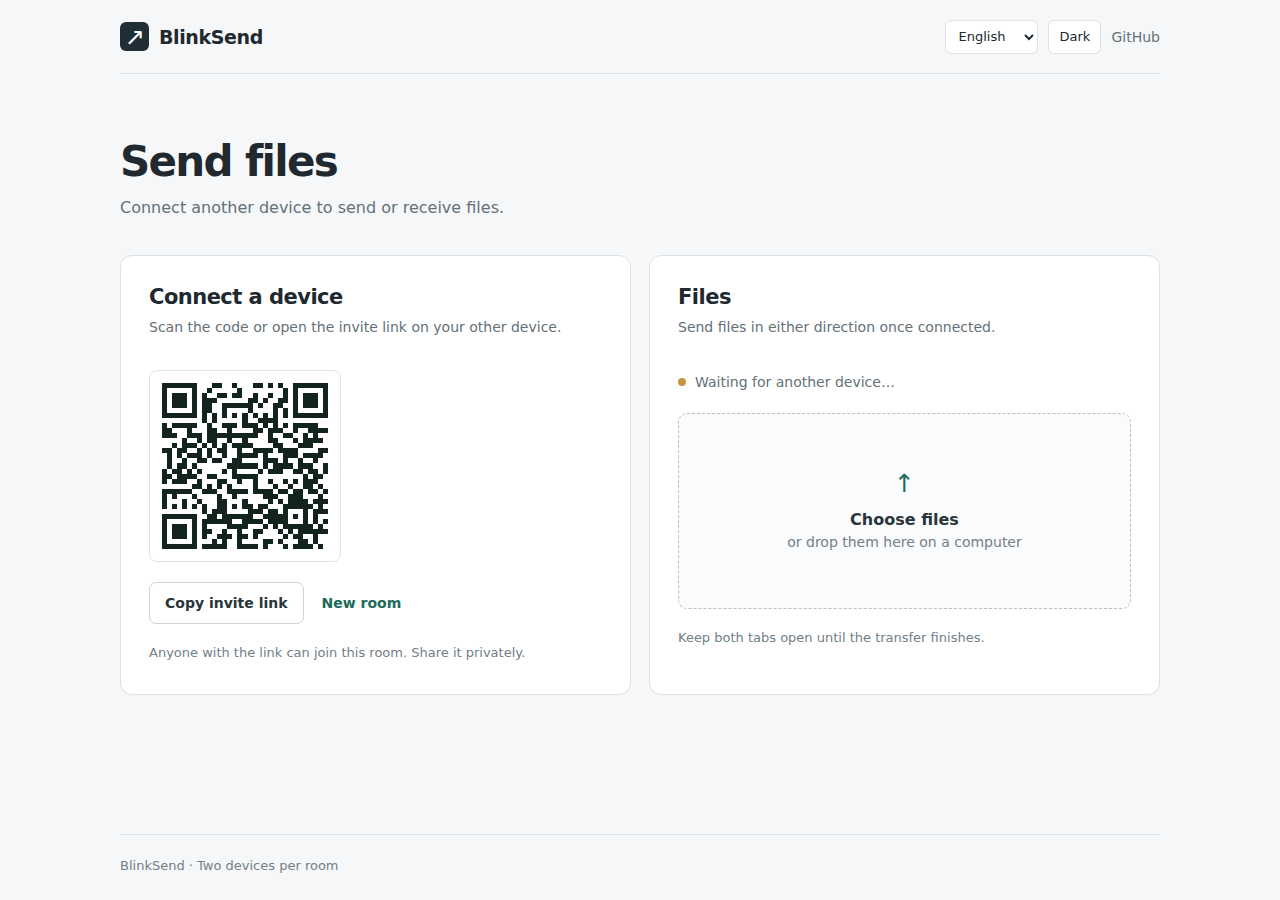
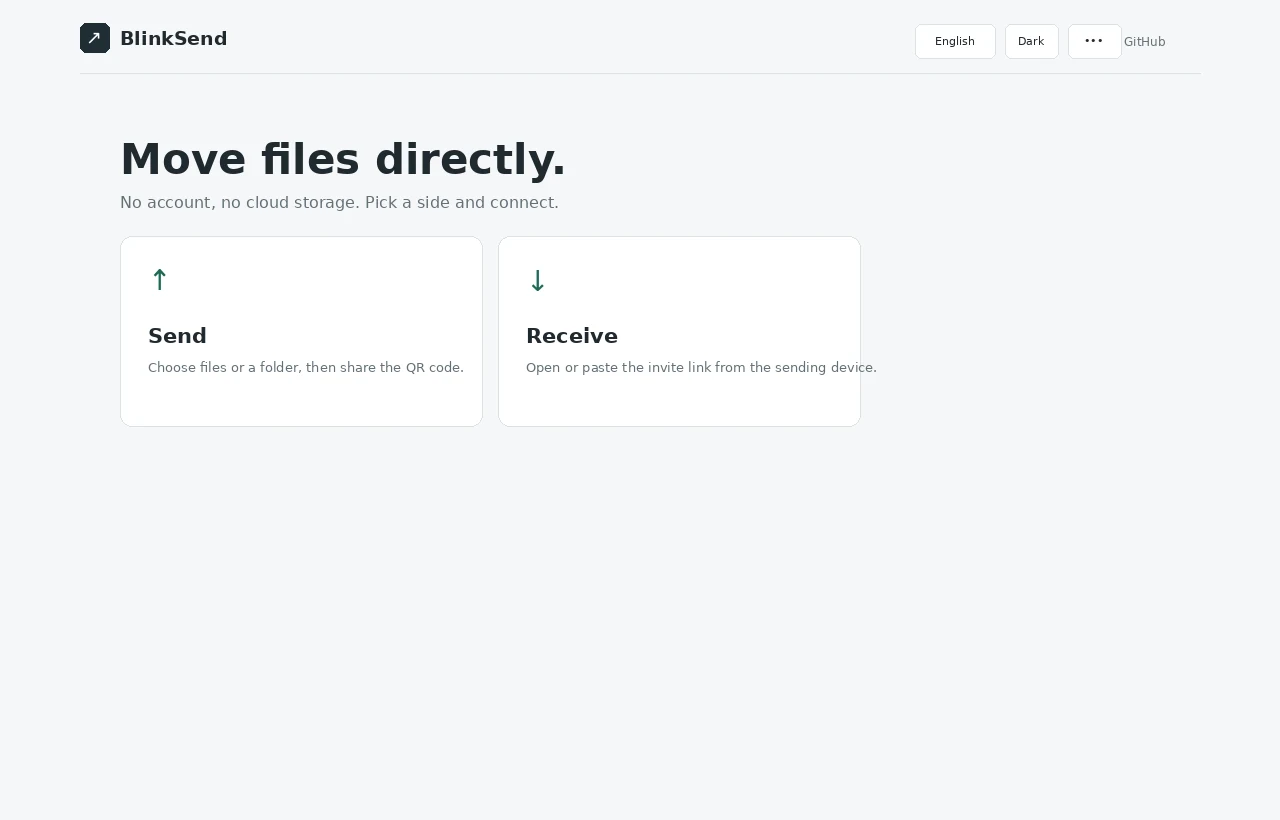
Restore current screenshots and animated README walkthroughs (#6)
* Add reproducible README media renderer

* Automate README media regeneration

* Restore updated screenshots and animated walkthroughs

* Make README media refresh race-safe

* Refresh README visuals for v0.2.0

* Keep README media refresh as an on-demand workflow

* Document on-demand README media refresh

---------

diff --git a/scripts/generate-readme-media.py b/scripts/generate-readme-media.py
@@ -1,0 +1,93 @@
+from PIL import Image, ImageDraw, ImageFont
+from pathlib import Path
+
+OUT=Path("docs/media"); OUT.mkdir(parents=True,exist_ok=True)
+REG="/usr/share/fonts/truetype/dejavu/DejaVuSans.ttf"
+BOLD="/usr/share/fonts/truetype/dejavu/DejaVuSans-Bold.ttf"
+C={"page":"#f6f7f8","surface":"#ffffff","border":"#dce2e5","text":"#20292f","muted":"#647178","accent":"#206a59","soft":"#f5f7f8",
+   "darkpage":"#171d20","darksurface":"#222b2f","darkborder":"#3b484e","darktext":"#edf2f1","darkmuted":"#b1c0c2","darkaccent":"#83d2b1"}
+def font(n,b=False): return ImageFont.truetype(BOLD if b else REG,n)
+def rr(d,b,r,fill,outline=None,w=1): d.rounded_rectangle(b,r,fill=fill,outline=outline,width=w)
+def t(d,xy,s,n=16,fill="#20292f",b=False,anchor=None): d.text(xy,s,font=font(n,b),fill=fill,anchor=anchor)
+def btn(d,b,label,primary=False):
+    rr(d,b,7,C["accent"] if primary else C["surface"],None if primary else "#cbd4d8")
+    t(d,((b[0]+b[2])//2,(b[1]+b[3])//2),label,13,"white" if primary else C["text"],True,"mm")
+def qr(d,x,y,s=142):
+    d.rectangle((x,y,x+s,y+s),fill="white"); q=s//25
+    for yy in range(25):
+        for xx in range(25):
+            if (xx*7+yy*11+xx*yy)%13<5: d.rectangle((x+xx*q,y+yy*q,x+(xx+1)*q-1,y+(yy+1)*q-1),fill="#111")
+    for ox,oy in ((1,1),(17,1),(1,17)):
+        d.rectangle((x+ox*q,y+oy*q,x+(ox+7)*q,y+(oy+7)*q),fill="#111")
+        d.rectangle((x+(ox+1)*q,y+(oy+1)*q,x+(ox+6)*q,y+(oy+6)*q),fill="white")
+        d.rectangle((x+(ox+2)*q,y+(oy+2)*q,x+(ox+5)*q,y+(oy+5)*q),fill="#111")
+def header(d,w,dark=False,mobile=False):
+    surf=C["darksurface"] if dark else C["surface"]; border=C["darkborder"] if dark else C["border"]; fg=C["darktext"] if dark else C["text"]; muted=C["darkmuted"] if dark else C["muted"]; accent=C["darkaccent"] if dark else "#202e35"
+    left=16 if mobile else 80; right=w-16 if mobile else w-80; y=63 if mobile else 73
+    d.line((left,y,right,y),fill=border); rr(d,(left,18 if mobile else 23,left+29,47 if mobile else 52),6,accent); t(d,(left+14,32 if mobile else 37),"↗",19,surf,False,"mm"); t(d,(left+40,32 if mobile else 38),"BlinkSend",17 if mobile else 19,fg,True,"lm")
+    if mobile:
+        for box,label in [((210,18,284,52),"English"),((291,18,340,52),"Light" if dark else "Dark"),((346,18,382,52),"•••")]: rr(d,box,6,surf,border); t(d,((box[0]+box[2])//2,35),label,10,fg,False,"mm")
+    else:
+        for box,label in [((w-365,24,w-285,58),"English"),((w-275,24,w-222,58),"Dark"),((w-212,24,w-159,58),"•••")]: rr(d,box,6,surf,border); t(d,((box[0]+box[2])//2,41),label,11,fg,False,"mm")
+        t(d,(w-135,41),"GitHub",12,muted,False,"mm")
+def landing(w,h,dark=False,mobile=False):
+    page=C["darkpage"] if dark else C["page"]; surf=C["darksurface"] if dark else C["surface"]; border=C["darkborder"] if dark else C["border"]; fg=C["darktext"] if dark else C["text"]; muted=C["darkmuted"] if dark else C["muted"]; accent=C["darkaccent"] if dark else C["accent"]
+    im=Image.new("RGB",(w,h),page); d=ImageDraw.Draw(im); header(d,w,dark,mobile)
+    x=16 if mobile else 120; y=104 if mobile else 135; t(d,(x,y),"Move files directly.",34 if mobile else 42,fg,True); t(d,(x,y+(49 if mobile else 58)),"No account, no cloud storage. Pick a side and connect.",13 if mobile else 16,muted)
+    if mobile:
+        cards=[(16,185,w-16,339,"Send","Choose files or a folder, then share the QR code.","↑"),(16,357,w-16,511,"Receive","Open or paste the invite link from the sending device.","↓")]
+    else:
+        cards=[(120,236,482,426,"Send","Choose files or a folder, then share the QR code.","↑"),(498,236,860,426,"Receive","Open or paste the invite link from the sending device.","↓")]
+    for x1,y1,x2,y2,title,sub,icon in cards:
+        rr(d,(x1,y1,x2,y2),12,surf,border); t(d,(x1+28,y1+28),icon,28,accent); t(d,(x1+28,y1+87 if not mobile else y1+74),title,21,fg,True); t(d,(x1+28,y1+123 if not mobile else y1+108),sub,12 if mobile else 13,muted)
+    return im
+def split(kind="pair",p=.68):
+    im=Image.new("RGB",(1080,610),C["page"]); d=ImageDraw.Draw(im)
+    for col,title in enumerate(("↗ BlinkSend · Sender","↗ BlinkSend · Receiver")):
+        x=22+526*col; rr(d,(x,20,x+510,590),14,C["surface"],C["border"]); t(d,(x+24,51),title,15,C["text"],True); d.line((x+24,78,x+486,78),fill=C["border"])
+    if kind=="pair":
+        t(d,(46,112),"Connect a device",21,C["text"],True); t(d,(46,145),"Scan the QR code or type the pairing code.",13,C["muted"]); qr(d,46,178)
+        rr(d,(46,337,414,417),8,C["soft"],C["border"]); t(d,(61,352),"Pairing code",11,C["muted"]); t(d,(61,376),"7K4M-9Q2X",22,C["text"],True); t(d,(61,403),"Valid until 16:08.",11,C["muted"])
+        t(d,(574,112),"Receive files",21,C["text"],True); t(d,(574,145),"Enter the code shown on the sender.",13,C["muted"]); rr(d,(574,188,894,232),7,C["surface"],"#cbd4d8"); t(d,(590,210),"7K4M-9Q2X",15,C["text"],False,"lm"); btn(d,(906,188,1030,232),"Use code",True); btn(d,(574,252,694,294),"Scan QR"); btn(d,(706,252,830,294),"Find nearby")
+    elif kind=="verify":
+        for x in (46,574):
+            d.ellipse((x,112,x+8,120),fill="#298768"); t(d,(x+18,116),"Connected · Direct · Excellent",13,C["muted"],False,"lm"); rr(d,(x,151,x+440,306),9,C["soft"],C["border"]); t(d,(x+14,166),"VERIFY DEVICE",11,C["muted"],True); t(d,(x+14,190),"728 491",28,C["text"],True); t(d,(x+14,232),"Make sure both screens show the same code.",13,C["muted"]); btn(d,(x+14,258,x+134,296),"Codes match",True)
+    else:
+        for x in (46,574): d.ellipse((x,112,x+8,120),fill="#298768"); t(d,(x+18,116),"Connected · Direct · Excellent · 86 MB/s",13,C["muted"],False,"lm")
+        for x,action,speed in ((46,"Sending","84"),(574,"Receiving","82")):
+            t(d,(x,164),"Holiday Photos.zip",15,C["text"],True); t(d,(x+420,164),"2.4 GB",13,C["muted"],False,"ra"); t(d,(x,193),f"Batch {2.4*p:.1f} GB of 2.4 GB · file 1/1",12,C["muted"]); rr(d,(x,219,x+440,229),5,"#e4e8ea"); rr(d,(x,219,x+int(440*p),229),5,C["accent"])
+            if p<1: t(d,(x,252),f"{action} {2.4*p:.1f} GB of 2.4 GB · {speed} MB/s · ~{max(1,int(15*(1-p)))}s left",12,C["muted"])
+            else: rr(d,(x,248,x+440,296),8,"#eff8f4","#b9d9cd"); t(d,(x+14,272),"✓ Transfer complete — file verified.",14,"#185c48",True,"lm")
+    return im
+def cursor(im,x,y,click=0,label=None):
+    im=im.copy(); d=ImageDraw.Draw(im,"RGBA")
+    if click:
+        r=int(14+26*click); d.ellipse((x-r,y-r,x+r,y+r),outline=(32,106,89,int(170*(1-click))),width=5)
+    pts=[(x,y),(x+4,y+33),(x+12,y+24),(x+23,y+40),(x+31,y+35),(x+20,y+19),(x+32,y+15)]
+    d.polygon(pts,fill="white",outline="#14191b"); d.line(pts+[pts[0]],fill="#14191b",width=3)
+    if label:
+        bb=d.textbbox((0,0),label,font=font(14,True)); tw=bb[2]-bb[0]; th=bb[3]-bb[1]; bx=min(im.width-tw-28,x+38); by=max(12,y-18); rr(d,(bx,by,bx+tw+20,by+th+14),9,(32,106,89,235)); d.text((bx+10,by+7),label,font=font(14,True),fill="white")
+    return im
+def ease(v): return 3*v*v-2*v*v*v
+def move(base,a,b,n,label):
+    out=[]
+    for i in range(n):
+        q=ease(i/max(1,n-1)); x=int(a[0]+(b[0]-a[0])*q); y=int(a[1]+(b[1]-a[1])*q); out.append(cursor(base,x,y,0,label if i>n//2 else None))
+    for i in range(4): out.append(cursor(base,b[0],b[1],i/4,label))
+    return out
+def save_gif(frames,path,duration):
+    picks=[round(i*(len(frames)-1)/11) for i in range(12)]
+    frames=[frames[i].resize((480,271),Image.Resampling.LANCZOS).quantize(colors=24,method=Image.Quantize.MEDIANCUT,dither=Image.Dither.NONE) for i in picks]
+    frames[0].save(path,save_all=True,append_images=frames[1:],duration=duration,loop=0,optimize=True,disposal=2)
+
+landing(1280,820).save(OUT/"desktop.webp","WEBP",quality=88,method=6)
+landing(390,844,mobile=True).save(OUT/"mobile.webp","WEBP",quality=88,method=6)
+landing(390,844,dark=True,mobile=True).save(OUT/"mobile-dark.webp","WEBP",quality=88,method=6)
+pair,verify=split("pair"),split("verify")
+frames=[cursor(pair,150,520)]*4 + move(pair,(150,520),(948,210),9,"Enter code")
+frames += [Image.blend(pair,verify,(i+1)/5) for i in range(4)] + move(verify,(948,210),(140,278),8,"Compare") + move(verify,(140,278),(668,278),8,"Same code") + [cursor(verify,668,278,0,"Verified")]*5
+save_gif(frames,OUT/"pairing.gif",230)
+frames=move(split("transfer",.05),(110,500),(165,165),8,"Send file") + [cursor(split("transfer",i/14),165,165,0,"P2P transfer") for i in range(2,14)] + [cursor(split("transfer",1),165,165,0,"SHA-256 verified")]*6
+save_gif(frames,OUT/"transfer.gif",210)
+for name in ("desktop.webp","mobile.webp","mobile-dark.webp","pairing.gif","transfer.gif"):
+    p=OUT/name; print(name,p.stat().st_size)

diff --git a/README.md b/README.md
@@ -7,6 +7,36 @@
 
 > **Status:** BlinkSend is an actively developed self-hosted project. The automated suite covers the transfer protocol, signaling abuse controls, integrity checks, PWA metadata, and large-transfer simulations; real-device/browser behavior can still differ by platform APIs.
 
+## See it in action
+
+<p align="center">
+  <img src="docs/media/desktop.webp" width="920" alt="BlinkSend v0.2.0 Send and Receive start screen">
+</p>
+
+<p align="center">
+  <img src="docs/media/mobile.webp" width="270" alt="BlinkSend v0.2.0 mobile light theme">
+  &nbsp;&nbsp;
+  <img src="docs/media/mobile-dark.webp" width="270" alt="BlinkSend v0.2.0 mobile dark theme">
+</p>
+
+### Pair in seconds
+
+<p align="center">
+  <img src="docs/media/pairing.gif" width="720" alt="Animated BlinkSend pairing walkthrough with manual code and peer verification">
+</p>
+
+The pairing demo shows the current flow: enter the temporary eight-character code, compare the same six-digit DTLS fingerprint code on both devices, then confirm **Codes match**. The oversized cursor, eased movement, click ripples, and action labels are intentionally part of the walkthrough so the flow stays readable even when the GIF is viewed small.
+
+### Send, watch progress, verify
+
+<p align="center">
+  <img src="docs/media/transfer.gif" width="720" alt="Animated BlinkSend transfer walkthrough with speed, ETA, progress and SHA-256 verification">
+</p>
+
+The transfer demo highlights Direct connection quality, live speed/ETA, whole-transfer progress, and the final SHA-256 verified state. The filenames, speeds, codes, and times shown in the documentation renders are illustrative rather than benchmark claims.
+
+The README media is reproducible: `scripts/generate-readme-media.py` renders these assets, and the dedicated **Refresh README media** workflow can regenerate and commit them on demand after UI changes.
+
 ## Current flow
 
 1. Open BlinkSend and choose **Send** or **Receive**.
